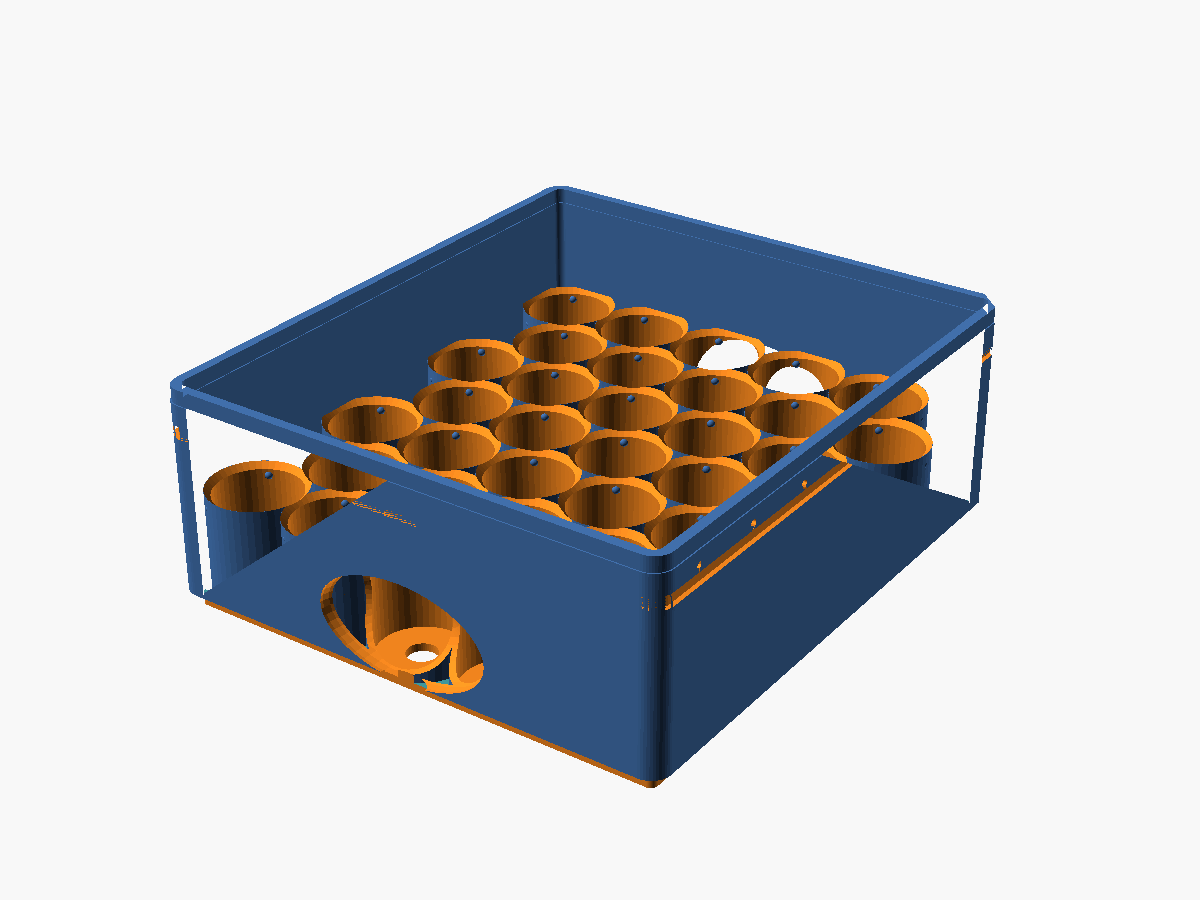
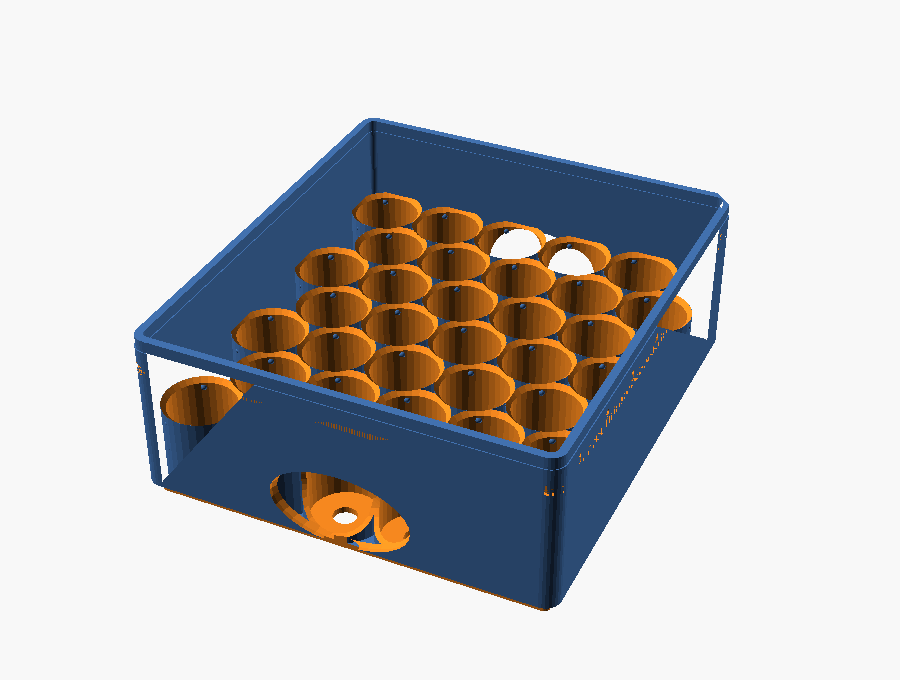
Fix v5: manifold tray + sync audits/README to trimmed dimensions
The published current/tray.stl was a preview export — 69 interpenetrating
shells (watertight=False), despite the README claiming all parts manifold.
Re-rendered via CGAL into a clean single watertight solid (99.4 cm3); stacklid
and lid were already manifold.

The v5 frame trim (rim 3.0->2.5, floor 2.0->1.6) was applied in the .scad but
not propagated, so:
- fit_audit.py / checks_lidded.py hardcoded the old 3.0/2.0 -> they audited the
  wrong design. Synced to 2.5/1.6; both still PASS, now on the real geometry.
- README height/pitch/footprint were stale (46.74mm / 143.2mm / 107x120).
  Updated to the audit's authoritative numbers: pitch 46.34mm, 3-layer 142.0mm
  (139.0 flush), footprint 106x119mm.
- Re-rendered tray.png from the manifold source.

All three parts: watertight, 1 component. fit_audit + checks_lidded PASS.

Changed region(s): [[0.1244, 0.1544, 0.84, 0.8956]]

diff --git a/current/checks_lidded.py b/current/checks_lidded.py
@@ -6,7 +6,7 @@ import math, sys
 
 vial_d, vial_h = 16.51, 37.74
 cols, rows = 5, 7
-bore_clear, wall_btw, cup_wall, rim_w, floor_t, v_clear = 0.6, 1.5, 1.2, 3.0, 2.0, 3.0
+bore_clear, wall_btw, cup_wall, rim_w, floor_t, v_clear = 0.6, 1.5, 1.2, 2.5, 1.6, 3.0
 pocket_wall_h = 22.0
 pocket_chamfer, relief_d = 1.2, 6.0
 reg_h, tongue_t, reg_clr = 3.0, 2.0, 0.4

diff --git a/current/fit_audit.py b/current/fit_audit.py
@@ -7,7 +7,7 @@ import math
 # ---- params (mirror the scad) ----
 vial_d, vial_h = 16.51, 37.74
 cols, rows = 5, 7
-bore_clear, wall_btw, cup_wall, rim_w, floor_t, v_clear = 0.6, 1.5, 1.2, 3.0, 2.0, 3.0
+bore_clear, wall_btw, cup_wall, rim_w, floor_t, v_clear = 0.6, 1.5, 1.2, 2.5, 1.6, 3.0
 pocket_wall_h = 22.0
 pocket_chamfer, relief_d = 1.2, 6.0
 reg_h, tongue_t, reg_clr = 3.0, 2.0, 0.4

diff --git a/current/README.md b/current/README.md
@@ -28,8 +28,8 @@ manifold; `fit_audit.py` + `checks_lidded.py` pass.
 |---|---|---|
 | Lids | 1 (top only) | **1 identical `stacklid` per tray** |
 | Stacks via | tray-on-tray groove | **lid top plate** (register tongue) |
-| Max height | fixed 3-tray tower | **unlimited** — add a layer = +46.74 mm |
-| 3-layer envelope | 107 × 120 × **132** mm | 107 × 120 × **143** mm (or **140** flush) |
+| Max height | fixed 3-tray tower | **unlimited** — add a layer = +46.34 mm |
+| 3-layer envelope | 107 × 120 × **132** mm | 106 × 119 × **142** mm (or **139** flush) |
 | Drainage | relief holes drain down | **directed lid perforations** (see below) |
 
 ## Stack any height (the modular part)
@@ -42,14 +42,14 @@ for each extra layer.
 
 | Layers | Vials | Height (extendable) | Height (flush cap) |
 |---:|---:|---:|---:|
-| 1 | 35 | 49.7 mm | 46.7 mm |
-| 2 | 70 | 96.5 mm | 93.5 mm |
-| **3** | **105** | **143.2 mm** | **140.2 mm** |
-| 5 | 175 | 236.7 mm | 233.7 mm |
-| 10 | 350 | 470.4 mm | 467.4 mm |
+| 1 | 35 | 49.3 mm | 46.3 mm |
+| 2 | 70 | 95.7 mm | 92.7 mm |
+| **3** | **105** | **142.0 mm** | **139.0 mm** |
+| 5 | 175 | 234.7 mm | 231.7 mm |
+| 10 | 350 | 466.4 mm | 463.4 mm |
 
-Footprint stays **107 × 120 mm** at any height. Per-layer pitch is a constant
-**46.74 mm** (tray 42.74 + lid plate 4.0); the inter-layer tongues recess into the
+Footprint stays **106 × 119 mm** at any height. Per-layer pitch is a constant
+**46.34 mm** (tray 42.34 + lid plate 4.0); the inter-layer tongues recess into the
 grooves and add nothing.
 
 ### Why the topmost lid used to be different — and isn't anymore

diff --git a/README.md b/README.md
@@ -13,8 +13,8 @@ directed lid drainage, all fits audited.
 
 | | |
 |---|---|
-| **Footprint** | 107 × 120 mm (near-cube; ~114×127 incl. skirt) |
-| **Height** | +46.74 mm per layer → **3 layers (105 vials) = 143 mm**, 5 = 237, 10 = 470 |
+| **Footprint** | 106 × 119 mm (near-cube; top-cap lid ~114×127) |
+| **Height** | +46.34 mm per layer → **3 layers (105 vials) = 142 mm**, 5 = 235, 10 = 466 |
 | **Print per layer** | 1× `tray` + 1× `stacklid` (top layer can use the flush `lid`) |
 | **Material** | **PETG or PP — not PLA** (PLA goes brittle at freezer temps) |
 | **Verified** | `fit_audit.py` + `checks_lidded.py` all pass; all parts render manifold |